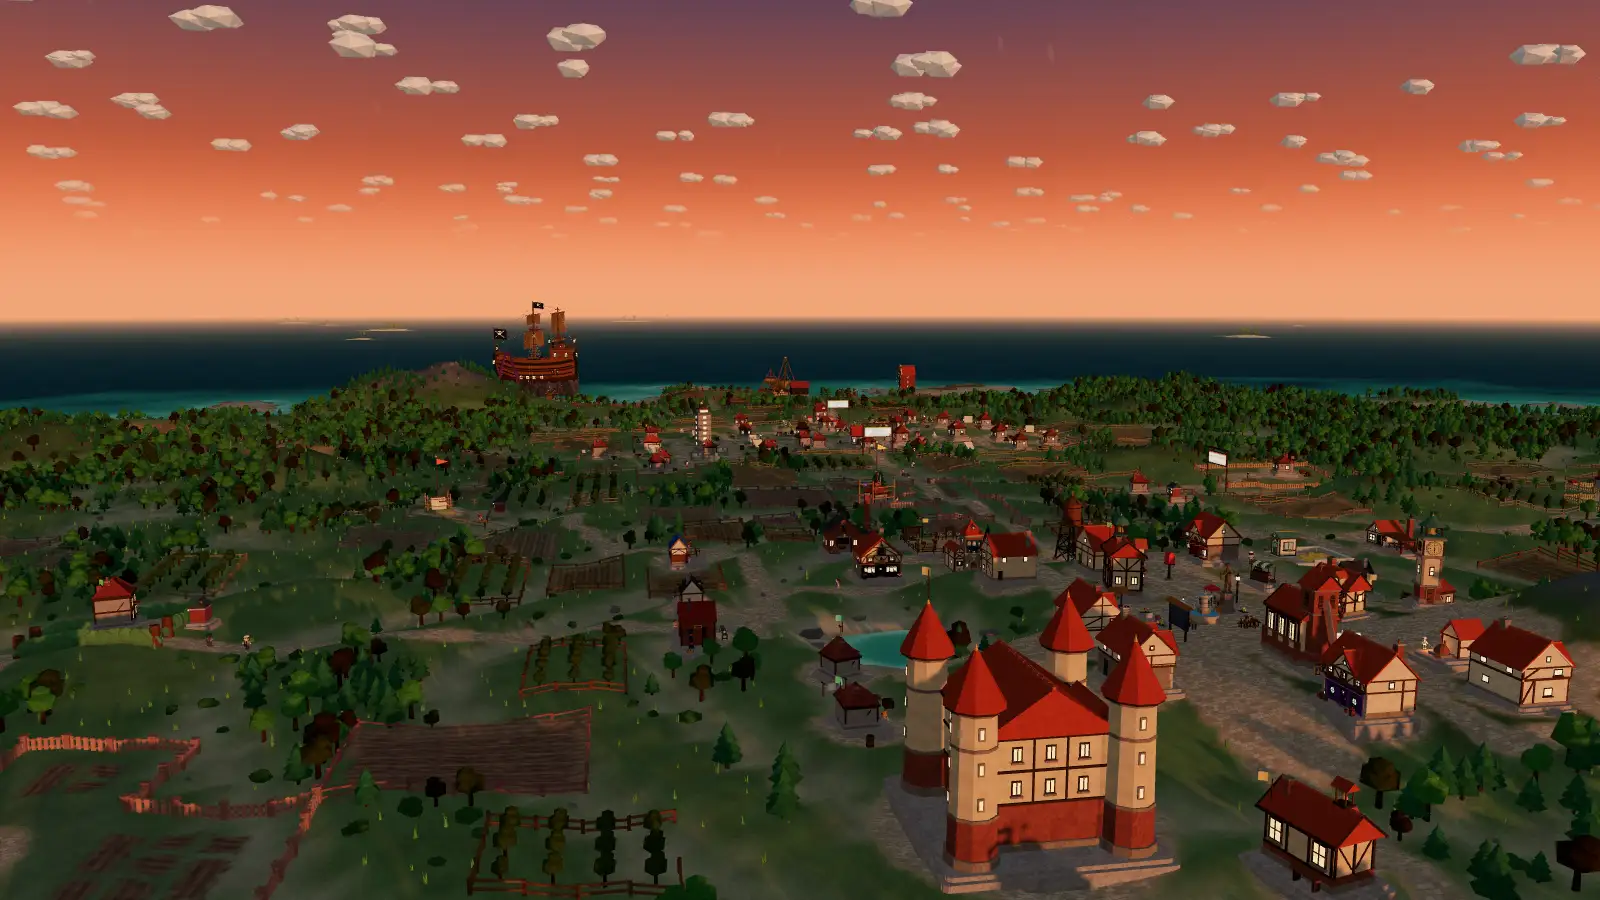
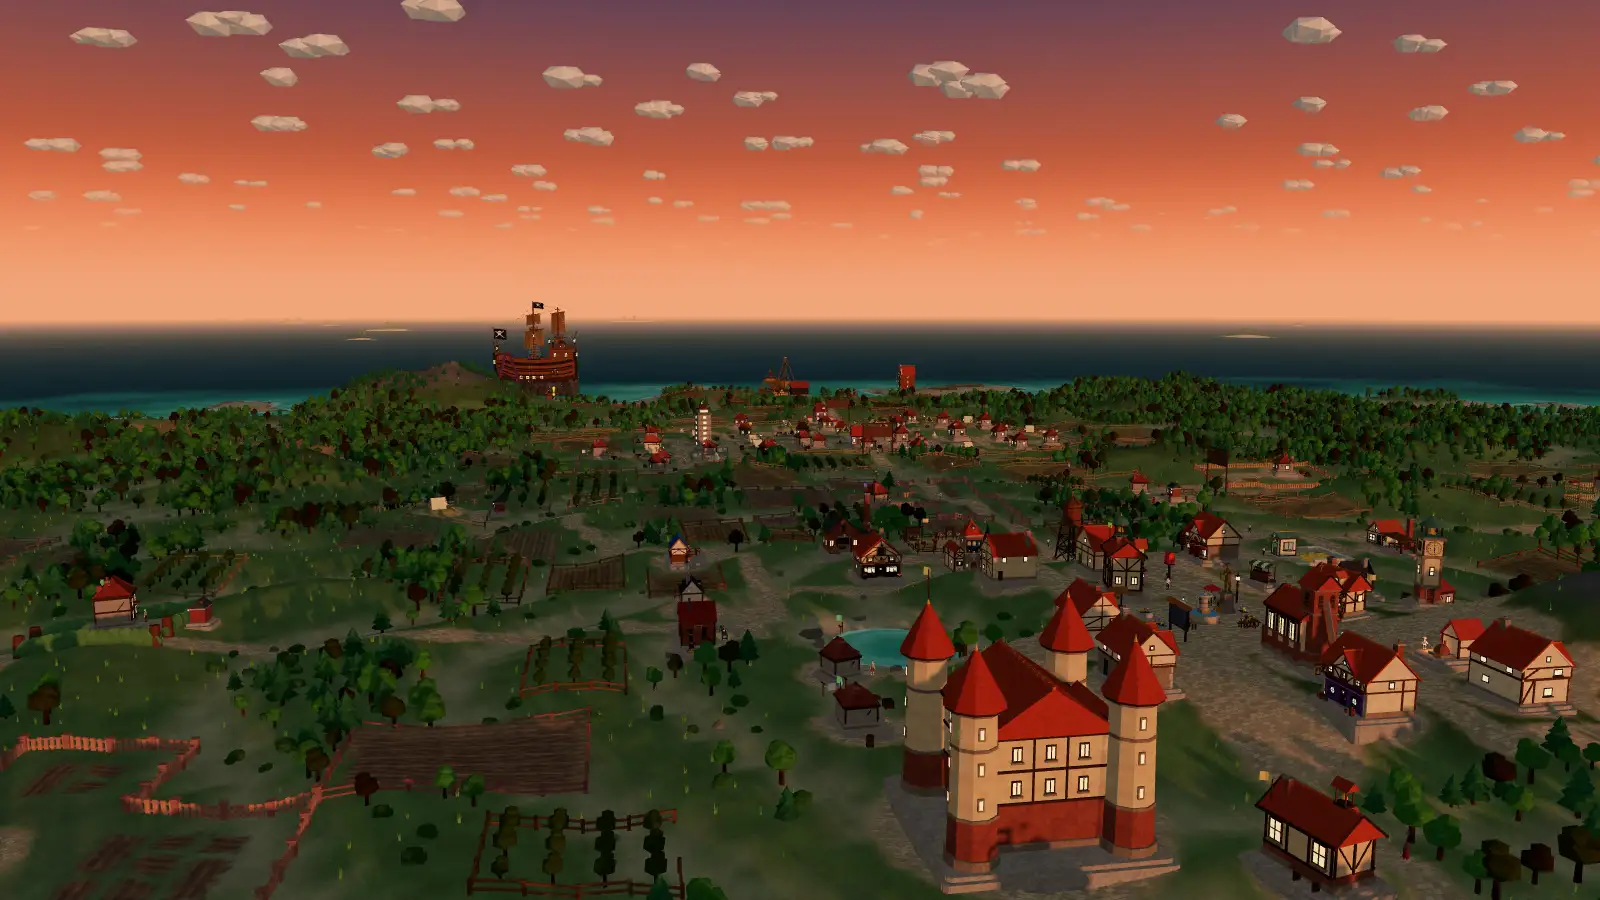
Maak de beelden van BierRum opnieuw zonder wijknamen
De wijknamen zijn de echte repo's van de keeper (een ervan is werk). Interface,
stad, nacht, burcht, gehucht en og.jpg zijn opnieuw gemaakt op een kopie van het
eiland: de luchtnamen (.hamlet-label) en YOU verborgen, de boogborden over de
ingangen kaal. Luchtfoto en haven bleven: daar is geen bord leesbaar. Het recept
in Plans/DONE/website.md zegt hoe, en de alt-tekst van de interface noemt geen
namen meer.

diff --git a/site/index.html b/site/index.html
@@ -341,7 +341,7 @@
         <li><button type="button" data-full="img/hamlet.webp"><img src="img/hamlet-800.webp" width="800" height="450" loading="lazy" alt="A hamlet near the north coast: houses and tents inside a wooden fence, fields and orchards round it, and the shipyard on the beach behind."></button><p>A hamlet by the north shore, fields all round it.</p></li>
         <li class="g-wide g-right"><button type="button" data-full="img/harbour.webp"><img src="img/harbour-800.webp" width="800" height="450" loading="lazy" alt="The north coast from above: fields down to the beach, the shipyard with a hull on its slipway, a jetty, the warehouse and the Salty Kraken on its rock off shore."></button><p>The north coast, with the shipyard at work.</p></li>
         <li><button type="button" data-full="img/village.webp"><img src="img/village-800.webp" width="800" height="450" loading="lazy" alt="A younger island: a small town square with a water tower, fields and orchards and a handful of houses by a river."></button><p>An island earlier on, before its hamlets filled in.</p></li>
-        <li><button type="button" data-full="img/interface.webp"><img src="img/interface-800.webp" width="800" height="450" loading="lazy" alt="The Promptholm window with its interface: the island's title card with settler counts, hamlet names over the land, a menu bar and a timeline to replay the island's history."></button><p>With the interface on: hamlet names, counts and a timeline to replay how the town grew.</p></li>
+        <li><button type="button" data-full="img/interface.webp"><img src="img/interface-800.webp" width="800" height="450" loading="lazy" alt="The Promptholm window with its interface: the island's title card with settler counts, a menu bar and a timeline to replay the island's history."></button><p>With the interface on: counts, the menu bar and a timeline to replay how the town grew.</p></li>
         <li class="g-wide"><button type="button" data-full="img/kraken.webp"><img src="img/kraken-800.webp" width="800" height="450" loading="lazy" alt="The Salty Kraken close up: a galleon with black Jolly Roger flags and brown sails, lit windows along her stern, purple kraken arms round her hull and a rocky footing with a stair down to a jetty."></button><p>The Salty Kraken, aground in the bay.</p></li>
         <li><button type="button" data-full="img/kraken-hall.webp"><img src="img/kraken-hall-800.webp" width="800" height="450" loading="lazy" alt="Inside the Salty Kraken: a high hall of dark ship's timber lit by candle chandeliers, pirates at long tables and a bar under purple stained-glass windows."></button><p>Inside, where the crew drink.</p></li>
         <li><button type="button" data-full="img/dive.webp"><img src="img/dive-800.webp" width="800" height="450" loading="lazy" alt="The sea floor: kelp on rippled sand and a shoal of silver fish in the teal water."></button><p>Down on the sea floor.</p></li>

diff --git a/Plans/DONE/website.md b/Plans/DONE/website.md
@@ -74,9 +74,21 @@ zijn van het oude eiland gebleven. Recept:
    `b.craft.object.visible = false` voor elke `__state.boats` en `group.visible = false` op elk record
    `civic:ship*`. Voor `interface` zonder noclip, camera via `__controls`, en `#right-column, #toasts`
    verborgen: daar staan de echte sessietitels van de keeper.
+   **Geen namen in beeld** (zelfde dag, op verzoek van Tiemen: de wijknamen zijn zijn echte repo's, en
+   één is werk). Vóór elk shot: een stylesheet met `.hamlet-label { display: none !important }` (de
+   namen boven de gehuchten vanuit de lucht), in de scene elke `Sprite` met een canvas-map onzichtbaar
+   (YOU) en onder elke groep met `userData.id` = `district:*` elke mesh met een `map` (het beschreven
+   vlak van de boogborden over de ingangen; het bord zelf blijft kaal staan). Dat moet `window.__scene
+   = scene` bij de patch op `main.js`. De schepen op de rede zijn `/^civic:ship(:\d+)?$/` - niet
+   `civic:ship*`, dat neemt de werf mee. De kwaliteitsregelaar zet in headless Chrome de resolutie
+   omlaag (canvas 950 breed, wazig): `localStorage['promptholm.quality.auto'] = '0'` en herladen.
+   Zonder `?hour` zegt de klokchip in `interface` gewoon de echte tijd, zonder "preview".
 3. Poses (lokale coördinaten): overzicht van (0,140,150) naar (0,0,-15); stad en nacht van (-4,21,40) naar
    (-10,0,-6), zodat de Salty Kraken niet achter de titelkaart valt; burcht (-18,12,32) naar (-6,2,-40);
-   gehucht (-28,26,-28) naar (-4,0,-60); haven (18,32,-78) naar (0,0,-112).
+   gehucht (-28,26,-28) naar (-4,0,-60); haven (18,32,-78) naar (0,0,-112); `interface` met
+   `__controls.target` (0,0,-15) en `__camera.position` (0,148,159). Opnieuw zonder namen gemaakt:
+   `interface`, `town`, `night`, `castle`, `hamlet` en `og.jpg`; `aerial` en `harbour` bleven (geen
+   leesbaar bord: van zo hoog is een boogbord een paar pixels, en noclip toont de luchtnamen niet).
 4. WebP met Chrome's eigen encoder (`canvas.toDataURL('image/webp', 0.62)` op 1600, 0.7 op 800,
    JPEG 0.72 voor `og.jpg`).
 
